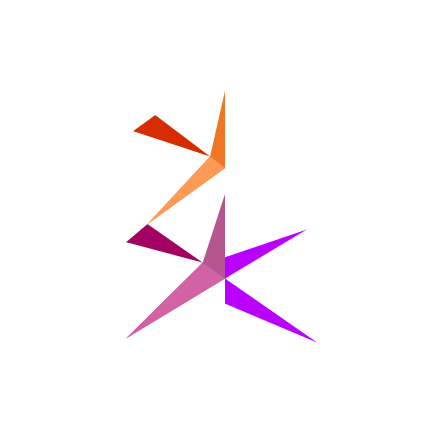
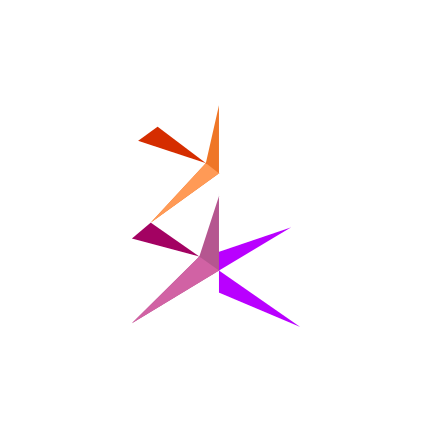
fix(brand): centre the 炎 mark and fit it inside Android's round masks

Changed region(s): [[0.3009, 0.2106, 0.7222, 0.7824]]

diff --git a/scripts/export-android-icons.ts b/scripts/export-android-icons.ts
@@ -16,6 +16,8 @@ type IconVariant = "dev" | "nightly" | "prod";
 const ADAPTIVE_CANVAS = 432;
 const SPLASH_CANVAS = 1152;
 const VISIBLE_FRACTION = 72 / 108;
+// Round launcher masks and the Android 12+ splash circle would clip the mark's outer tips.
+const MARK_CIRCLE_FIT = 0.88;
 const COMPOSER_CANVAS_PT = 1024;
 const SVG_DENSITY = 300;
 const OUTPUT_DIRECTORY = "apps/mobile/assets";
@@ -28,7 +30,7 @@ export class AndroidIconRenderError extends Schema.TaggedError<AndroidIconRender
 ) {}
 
 const wordmarkTransform = (size: number) => {
-  const scale = (size * VISIBLE_FRACTION) / 128;
+  const scale = (size * VISIBLE_FRACTION * MARK_CIRCLE_FIT) / 128;
   const offset = size / 2 - 64 * scale;
   return `translate(${offset.toFixed(3)} ${offset.toFixed(3)}) scale(${scale.toFixed(4)})`;
 };

diff --git a/assets/README.md b/assets/README.md
@@ -57,7 +57,7 @@ their rounded-square silhouette gets framed again and the wordmark is cropped. T
 is instead rendered from the same Icon Composer SVG sources by `vp run icons:export:android`:
 
 - `apps/mobile/assets/android-icon-foreground.png`: the shared transparent mark, with its 128-unit
-  canvas mapped onto the visible 72dp
+  canvas mapped onto the visible 72dp and shrunk to 88% so round masks keep its tips
 - `apps/mobile/assets/android-icon-background-dev.png` and `-nightly.png`: full-bleed variant
   artwork. Development and production use a solid color; nightly uses its night sky and clouds.
 - `apps/mobile/assets/android-splash-icon-*.png`: the two layers composed into one 288dp image, so
